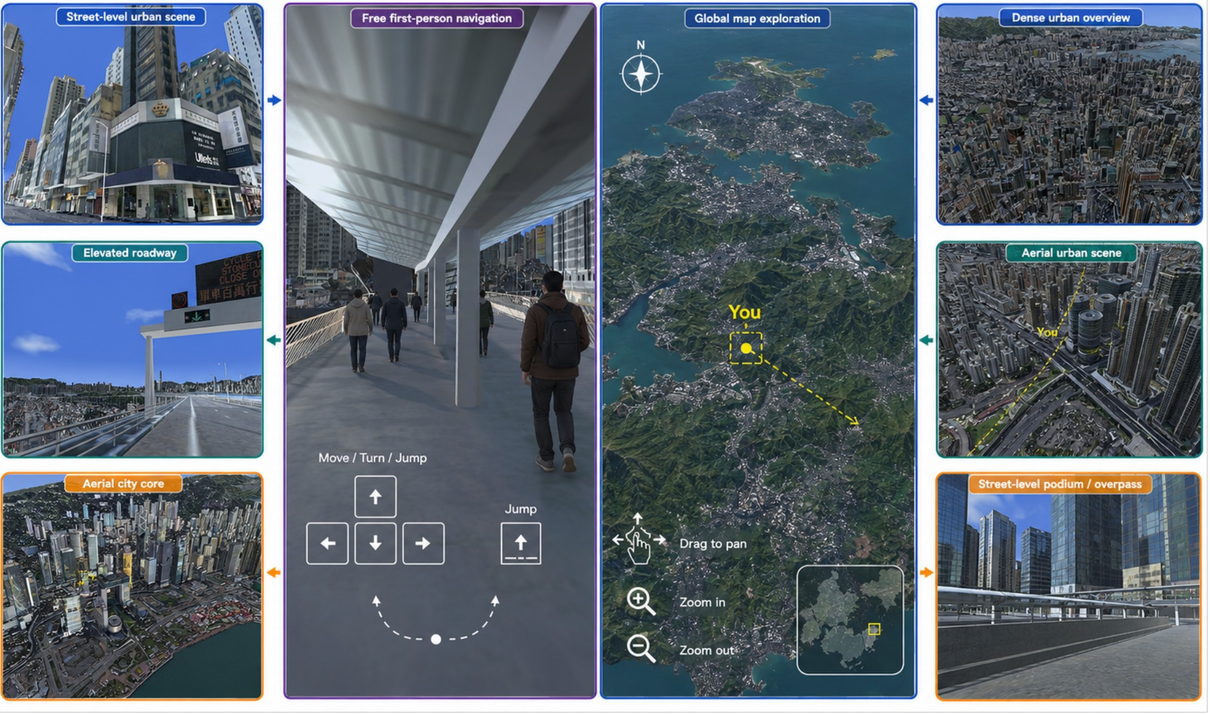
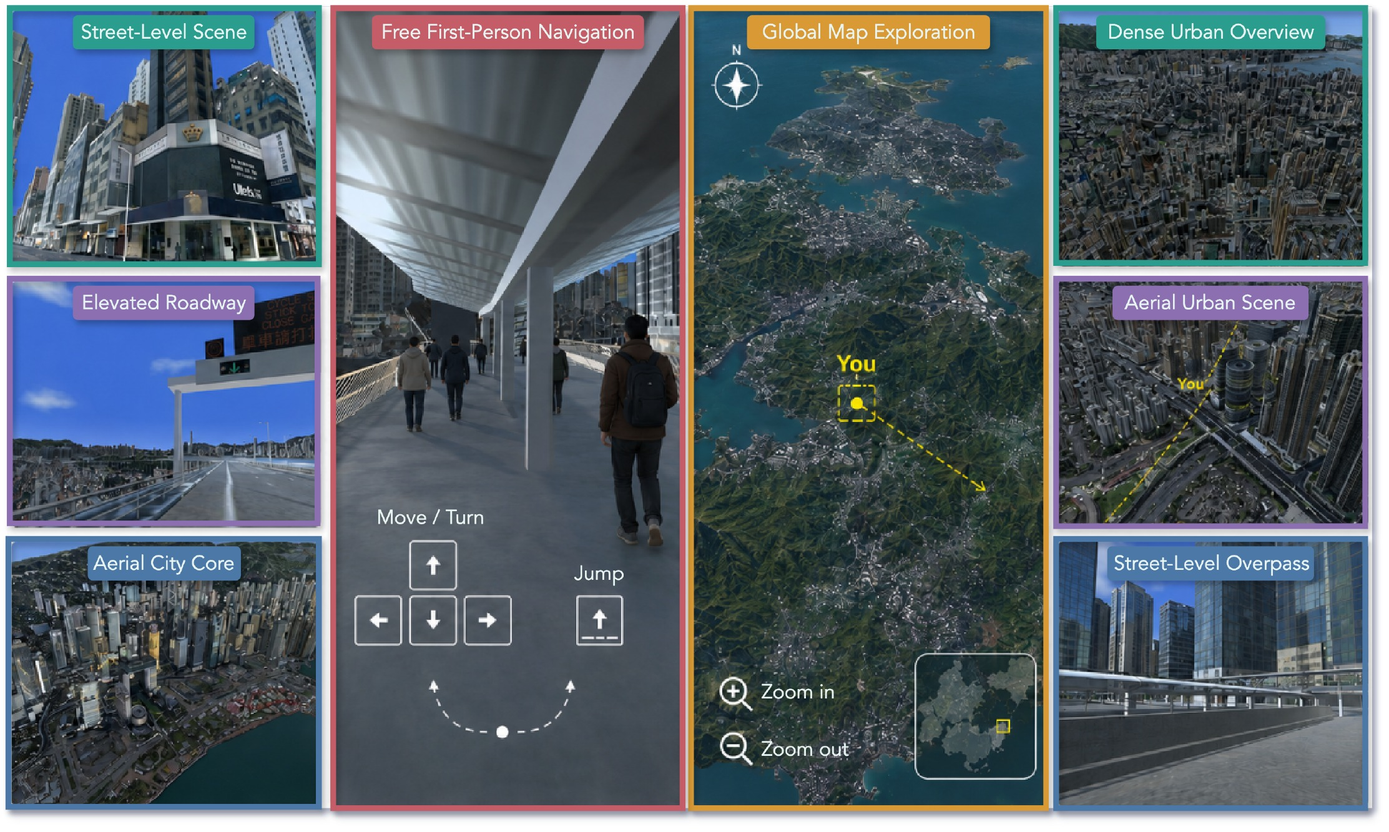
Refresh UrbanArena paper figures and affiliations

diff --git a/index.html b/index.html
@@ -33,6 +33,7 @@
         <a href="#urbanarena">UrbanArena</a>
         <a href="#simulation">Simulation</a>
         <a href="#urbanbench">UrbanBench</a>
+        <a href="#coverage">Coverage</a>
         <a href="#publication">Paper</a>
         <a href="https://github.com/UrbanArena/UrbanArena" target="_blank" rel="noreferrer">Code</a>
       </nav>
@@ -54,25 +55,24 @@
 
         <p class="abstract-lede">A real-scale urban sandbox that turns territory-wide 3D geospatial data of Hong Kong into a continuously rendered and physically grounded environment for multimodal agents.</p>
 
-        <p class="authors">Tianjie Ju<sup>1,2,3</sup>, Yueqing Sun<sup>3</sup>, Zheng Wu<sup>2</sup>, Yuhan Cui<sup>4</sup>, Bobo Li<sup>1</sup>, Pengzhou Cheng<sup>2</sup>, Haodong Zhao<sup>2</sup>, Xinbei Ma<sup>2</sup>, Qi Gu<sup>3</sup>, Hao Fei<sup>5</sup>, Zhuosheng Zhang<sup>2</sup></p>
-
         <div class="project-links" aria-label="Project links">
           <a class="link-button link-button--dark" href="#publication">Paper <span>coming soon</span></a>
           <a class="link-button" href="https://github.com/UrbanArena/UrbanArena" target="_blank" rel="noreferrer">Code <span>coming soon</span></a>
         </div>
 
         <div class="institution-logos" aria-label="Affiliated institutions">
-          <div class="institution"><img class="logo-nus" src="assets/nus.png" alt="National University of Singapore"></div>
           <div class="institution"><img class="logo-sjtu" src="assets/sjtu.png" alt="Shanghai Jiao Tong University"></div>
+          <div class="institution"><img class="logo-nus" src="assets/nus.png" alt="National University of Singapore"></div>
           <div class="institution"><img class="logo-longcat" src="assets/longcat.png" alt="LongCat by Meituan"></div>
           <div class="institution"><img class="logo-cuhk" src="assets/cuhk.png" alt="The Chinese University of Hong Kong"></div>
+          <div class="institution"><img class="logo-shu" src="assets/shu.jpg" alt="Shanghai University"></div>
           <div class="institution"><img class="logo-oxford" src="assets/oxford.jpeg" alt="University of Oxford"></div>
         </div>
       </div>
 
       <figure class="shell paper-figure hero-figure" id="urbanarena">
-        <img src="assets/figure-1.jpg" alt="UrbanArena overview showing street-level scenes, free first-person navigation, global map exploration, and aerial city views of Hong Kong" width="1938" height="1145">
-        <figcaption><strong>Figure 1.</strong> UrbanArena transforms territory-wide 3D geospatial data into a physically grounded digital replica of Hong Kong. Agents operate through first-person control while using a georeferenced global map.</figcaption>
+        <img src="assets/figure-1.jpg" alt="UrbanArena overview showing street-level scenes, free first-person navigation, global map exploration, and aerial views of Hong Kong" width="2225" height="1333">
+        <figcaption><strong>Figure 1.</strong> Overview of UrbanArena, a real-scale urban sandbox that transforms territory-wide 3D geospatial data into a physically grounded digital replica of Hong Kong.</figcaption>
       </figure>
 
       <div class="shell contribution-line" aria-label="Project summary">
@@ -157,6 +157,33 @@
       </div>
     </section>
 
+    <section class="section coverage" id="coverage" aria-labelledby="coverage-title">
+      <div class="shell section-heading">
+        <p class="section-number">04</p>
+        <div>
+          <p class="section-kicker">Benchmark coverage</p>
+          <h2 id="coverage-title">Coverage and composition.</h2>
+          <p>UrbanBench spans geographically diverse regions of Hong Kong while distributing thirteen task types across five capability levels. These views summarize where tasks occur and how the benchmark is composed.</p>
+        </div>
+      </div>
+
+      <div class="shell coverage-figures">
+        <figure class="coverage-figure coverage-figure--map">
+          <div class="coverage-image-wrap">
+            <img src="assets/figure-4-task-distribution.png" alt="Map of UrbanBench task locations distributed across Hong Kong" width="2200" height="1238" loading="lazy">
+          </div>
+          <figcaption><strong>Figure 4.</strong> Spatial distribution of UrbanBench tasks across Hong Kong.</figcaption>
+        </figure>
+
+        <figure class="coverage-figure coverage-figure--composition">
+          <div class="coverage-image-wrap">
+            <img src="assets/figure-5-task-composition.png" alt="Bar chart showing the thirteen UrbanBench task types across five capability levels" width="1400" height="1644" loading="lazy">
+          </div>
+          <figcaption><strong>Figure 5.</strong> Task composition of UrbanBench across five levels.</figcaption>
+        </figure>
+      </div>
+    </section>
+
     <section class="section publication" id="publication" aria-labelledby="publication-title">
       <div class="shell publication-grid">
         <div>
@@ -166,13 +193,13 @@
         </div>
 
         <div class="publication-details">
-          <p class="authors authors--publication">Tianjie Ju<sup>1,2,3</sup>, Yueqing Sun<sup>3</sup>, Zheng Wu<sup>2</sup>, Yuhan Cui<sup>4</sup>, Bobo Li<sup>1</sup>, Pengzhou Cheng<sup>2</sup>, Haodong Zhao<sup>2</sup>, Xinbei Ma<sup>2</sup>, Qi Gu<sup>3</sup>, Hao Fei<sup>5</sup>, Zhuosheng Zhang<sup>2</sup></p>
           <ol class="affiliation-list">
-            <li><sup>1</sup> National University of Singapore</li>
-            <li><sup>2</sup> Shanghai Jiao Tong University</li>
-            <li><sup>3</sup> Meituan</li>
-            <li><sup>4</sup> The Chinese University of Hong Kong</li>
-            <li><sup>5</sup> University of Oxford</li>
+            <li>Shanghai Jiao Tong University</li>
+            <li>National University of Singapore</li>
+            <li>Meituan</li>
+            <li>The Chinese University of Hong Kong</li>
+            <li>Shanghai University</li>
+            <li>University of Oxford</li>
           </ol>
 
           <div class="publication-actions">
@@ -202,7 +229,7 @@
         <span class="wordmark wordmark--footer" aria-label="UrbanArena"><span class="u1">U</span><span class="u2">r</span><span class="u3">b</span><span class="u4">a</span><span class="u5">n</span><span>Arena</span></span>
       </div>
       <p>Real-scale urban exploration for multimodal agents.</p>
-      <div class="footer-links"><a href="#urbanarena">Overview</a><a href="#simulation">Simulation</a><a href="#urbanbench">UrbanBench</a><a href="https://github.com/UrbanArena/UrbanArena" target="_blank" rel="noreferrer">GitHub</a></div>
+      <div class="footer-links"><a href="#urbanarena">Overview</a><a href="#simulation">Simulation</a><a href="#urbanbench">UrbanBench</a><a href="#coverage">Coverage</a><a href="https://github.com/UrbanArena/UrbanArena" target="_blank" rel="noreferrer">GitHub</a></div>
     </div>
   </footer>
 

diff --git a/styles.css b/styles.css
@@ -165,18 +165,19 @@ button { color: inherit; }
   margin: 48px 0 0;
   padding: 26px 0;
   display: grid;
-  grid-template-columns: repeat(5, 1fr);
+  grid-template-columns: repeat(6, 1fr);
   align-items: center;
   border-top: 1px solid var(--line);
   border-bottom: 1px solid var(--line);
 }
-.institution { min-width: 0; min-height: 58px; padding: 0 22px; display: grid; place-items: center; border-right: 1px solid #ececef; }
+.institution { min-width: 0; min-height: 58px; padding: 0 18px; display: grid; place-items: center; border-right: 1px solid #ececef; }
 .institution:last-child { border-right: 0; }
 .institution img { width: auto; object-fit: contain; }
 .logo-nus { max-height: 52px; }
 .logo-sjtu { max-height: 49px; }
 .logo-longcat { max-height: 38px; }
 .logo-cuhk { max-height: 42px; }
+.logo-shu { max-height: 44px; }
 .logo-oxford { max-height: 45px; }
 
 .paper-figure { margin-top: 64px; }
@@ -257,12 +258,36 @@ button { color: inherit; }
 .benchmark-summary strong { font-family: var(--serif); font-size: 1.65rem; font-weight: 500; }
 .benchmark-summary > p { margin: 0; padding: 20px 0 20px 28px; color: var(--muted); font-family: var(--serif); font-size: .8rem; line-height: 1.58; }
 
+.coverage { background: #fff; }
+.coverage-figures {
+  margin-top: 58px;
+  padding-top: 28px;
+  display: grid;
+  grid-template-columns: minmax(0, 1.75fr) minmax(260px, .72fr);
+  gap: 38px;
+  align-items: start;
+  border-top: 1px solid var(--ink);
+}
+.coverage-figure { min-width: 0; margin: 0; }
+.coverage-image-wrap { display: grid; place-items: center; background: #fff; }
+.coverage-image-wrap img { width: 100%; height: auto; object-fit: contain; }
+.coverage-figure--map .coverage-image-wrap { border: 1px solid var(--line); }
+.coverage-figure--composition .coverage-image-wrap { max-width: 370px; margin-inline: auto; }
+.coverage-figure figcaption {
+  margin-top: 14px;
+  color: var(--muted);
+  font-family: var(--serif);
+  font-size: .84rem;
+  line-height: 1.55;
+}
+.coverage-figure figcaption strong { color: var(--ink); }
+
 .publication { background: var(--paper-alt); }
 .publication-grid { display: grid; grid-template-columns: .8fr 1.2fr; gap: 86px; }
 .wordmark--publication { font-size: clamp(3.4rem, 6vw, 5.4rem); }
 .publication-title { max-width: 530px; margin: 16px 0 0; color: #3c4248; font-family: var(--serif); font-size: 1.5rem; line-height: 1.3; }
 .authors--publication { margin: 0; }
-.affiliation-list { list-style: none; margin: 24px 0 0; padding: 20px 0 0; display: grid; gap: 5px; border-top: 1px solid var(--line); color: var(--muted); font-family: var(--serif); font-size: .78rem; }
+.affiliation-list { list-style: none; margin: 0; padding: 20px 0 0; display: grid; gap: 5px; border-top: 1px solid var(--line); color: var(--muted); font-family: var(--serif); font-size: .78rem; }
 .publication-actions { margin-top: 28px; display: flex; align-items: center; justify-content: space-between; gap: 20px; }
 .publication-actions > span { color: var(--muted); font-size: .7rem; }
 .copy-button { cursor: pointer; padding: 8px 11px; border: 1px solid var(--line-dark); background: #fff; font-size: .68rem; font-weight: 700; }
@@ -296,14 +321,14 @@ button { color: inherit; }
 
 @media (max-width: 960px) {
   .institution-logos { grid-template-columns: repeat(3, 1fr); row-gap: 24px; }
-  .institution:nth-child(3) { border-right: 0; }
-  .institution:nth-child(4), .institution:nth-child(5) { grid-column: span 1; }
+  .institution:nth-child(3), .institution:nth-child(6) { border-right: 0; }
   .figure-explorer { grid-template-columns: 1fr; }
   .figure-groups { padding: 24px 0; border-right: 0; border-bottom: 1px solid var(--line-dark); }
   .figure-group { display: grid; grid-template-columns: 130px 1fr; gap: 15px; }
   .selected-figure { padding-left: 0; }
   .benchmark-summary { grid-template-columns: repeat(3, 1fr); }
   .benchmark-summary > p { grid-column: 1 / -1; padding-left: 0; border-top: 1px solid var(--line); }
+  .coverage-figures { grid-template-columns: minmax(0, 1.55fr) minmax(230px, .68fr); gap: 28px; }
   .publication-grid { grid-template-columns: 1fr; gap: 52px; }
   .publication-details { max-width: 760px; }
 }
@@ -342,7 +367,6 @@ button { color: inherit; }
   .institution { min-height: 54px; padding: 0 16px; border-right: 1px solid #ececef; }
   .institution:nth-child(even) { border-right: 0; }
   .institution:nth-child(3) { border-right: 1px solid #ececef; }
-  .institution:last-child { grid-column: 1 / -1; border-right: 0; }
   .paper-figure { margin-top: 44px; }
   .contribution-line { grid-template-columns: 1fr; }
   .contribution-line > div, .contribution-line > div:not(:first-child) { padding: 15px 0; border-right: 0; border-bottom: 1px solid var(--line); }
@@ -355,6 +379,8 @@ button { color: inherit; }
   .benchmark-summary { grid-template-columns: 1fr 1fr; }
   .benchmark-summary > div:nth-child(2) { border-right: 0; }
   .benchmark-summary > div:nth-child(3) { grid-column: 1 / -1; border-top: 1px solid var(--line); border-right: 0; padding-left: 0; }
+  .coverage-figures { grid-template-columns: 1fr; gap: 44px; }
+  .coverage-figure--composition { width: min(100%, 440px); margin-inline: auto; }
   .footer-inner { grid-template-columns: 1fr; gap: 18px; }
   .footer-links { flex-wrap: wrap; }
 }
